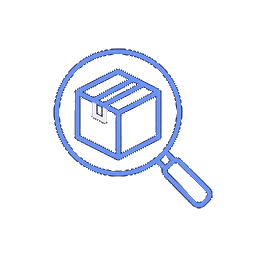
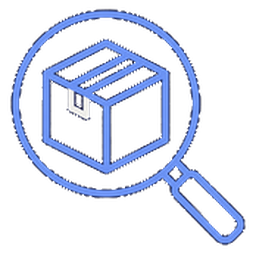
process section updated

Changed region(s): [[0.0312, 0.0312, 0.9688, 0.9688]]

diff --git a/src/app/components/process/process.ts b/src/app/components/process/process.ts
@@ -1,10 +1,12 @@
 import {
   Component,
+  ElementRef,
   OnDestroy,
   afterNextRender,
   computed,
   inject,
   signal,
+  viewChild,
 } from '@angular/core';
 import { RevealDirective } from '../../directives/reveal.directive';
 import { TranslationService } from '../../i18n/translation.service';
@@ -25,6 +27,13 @@ interface Step {
 /** How long each step holds before the track moves on, in milliseconds. */
 const DWELL = 4200;
 
+/**
+ * How long the track waits after someone picks a step before it starts walking
+ * itself again. Long enough to read the step that was chosen, short enough that
+ * the page does not feel like it has died. Every further click restarts it.
+ */
+const RESUME_AFTER = 500;
+
 @Component({
   selector: 'app-process',
   imports: [RevealDirective],
@@ -34,6 +43,8 @@ const DWELL = 4200;
 })
 export class Process implements OnDestroy {
   protected readonly i18n = inject(TranslationService);
+  private readonly host = inject(ElementRef<HTMLElement>);
+  private readonly fillEl = viewChild<ElementRef<HTMLElement>>('railFill');
 
   /**
    * One run from brief to delivery. The brief described this twice, as a
@@ -54,6 +65,18 @@ export class Process implements OnDestroy {
   protected readonly activeStep = computed(() => this.steps[this.active()]);
 
   /**
+   * The rail fill is driven directly rather than derived from the active step,
+   * because it has to do two different jobs. While the track is walking itself
+   * the fill creeps from the current stop to the next one across the whole
+   * dwell, so it reads as a countdown and the change of step never arrives
+   * unannounced. Once a visitor takes over it simply eases to whatever they
+   * picked.
+   */
+  protected readonly fill = signal(0);
+  protected readonly fillMs = signal(0);
+  protected readonly fillEase = signal('linear');
+
+  /**
    * How a stop should read. Two states, not three: a stop is either reached or
    * it is not, which is what makes the row a progress bar rather than a row of
    * six buttons with one of them lit. Steps already passed look identical to
@@ -66,35 +89,166 @@ export class Process implements OnDestroy {
     return index <= this.active();
   }
 
-  /** How far along the track the fill reaches, as a percentage. */
-  protected readonly progress = computed(
-    () => (this.active() / (this.steps.length - 1)) * 100,
-  );
+  /** Where a stop sits along the rail, as a percentage of its length. */
+  private stopAt(index: number): number {
+    return (index / (this.steps.length - 1)) * 100;
+  }
 
   private timer?: ReturnType<typeof setInterval>;
+  private resumeTimer?: ReturnType<typeof setTimeout>;
+  private observer?: IntersectionObserver;
+  /** Whether the track is currently walking itself, as opposed to being driven. */
+  private walking = false;
+  /** Set once, if the visitor has asked for less movement. */
+  private still = false;
+  /** Whether the section is on screen. The track only walks while it is. */
+  private onScreen = false;
+  /** Whether a step was picked recently enough to still be holding the track. */
+  private picked = false;
 
   constructor() {
     afterNextRender(() => {
       // The track walks itself so the sequence reads as a sequence without
-      // anyone touching it. It stops for good at the first interaction: once a
-      // visitor is choosing steps, moving the panel under them is a nuisance.
-      const still = matchMedia('(prefers-reduced-motion: reduce)').matches;
-      if (!still) {
-        this.timer = setInterval(
-          () => this.active.update((i) => (i + 1) % this.steps.length),
-          DWELL,
-        );
+      // anyone touching it. Picking a step only pauses that: holding the panel
+      // still while someone reads is the point, abandoning the animation for
+      // the rest of the visit is not.
+      this.still = matchMedia('(prefers-reduced-motion: reduce)').matches;
+      this.fill.set(this.stopAt(0));
+      if (this.still) {
+        return;
       }
+
+      // And it only walks while it can be seen. Running from page load means
+      // the sequence has usually played itself out before a visitor scrolls
+      // this far, so they arrive at a track already full and never see it
+      // move. Leaving the section parks it until they come back.
+      this.observer = new IntersectionObserver(
+        ([entry]) => {
+          this.onScreen = entry.isIntersecting;
+          if (this.onScreen) {
+            this.wake();
+          } else {
+            this.pauseWalking();
+            clearTimeout(this.resumeTimer);
+          }
+        },
+        // A third of the section showing is enough to call it seen, and is
+        // reached well before the track itself scrolls into view.
+        { threshold: 0.33 },
+      );
+      this.observer.observe(this.host.nativeElement);
     });
   }
 
   ngOnDestroy(): void {
-    this.stopAdvancing();
+    this.pauseWalking();
+    clearTimeout(this.resumeTimer);
+    this.observer?.disconnect();
   }
 
   protected select(index: number): void {
-    this.stopAdvancing();
+    this.pauseWalking();
     this.active.set(index);
+    // A deliberate choice should land, not crawl.
+    this.fillEase.set('cubic-bezier(0.22, 1, 0.36, 1)');
+    this.fillMs.set(450);
+    this.fill.set(this.stopAt(index));
+
+    // Hand the track back after a pause, measured from this click: a second
+    // click restarts the wait rather than stacking another resume on top.
+    this.picked = true;
+    this.armResume();
+  }
+
+  /**
+   * Start walking again when nothing is holding the track back. Both brakes are
+   * checked here rather than at each call site, so scrolling away mid-pause and
+   * coming back cannot start two tracks at once.
+   */
+  private wake(): void {
+    if (this.still || !this.onScreen || this.walking) {
+      return;
+    }
+    if (this.picked) {
+      this.armResume();
+      return;
+    }
+    this.startWalking();
+  }
+
+  private armResume(): void {
+    clearTimeout(this.resumeTimer);
+    if (this.still || !this.onScreen) {
+      return;                           // re-armed by the observer on return
+    }
+    this.resumeTimer = setTimeout(() => {
+      this.picked = false;
+      this.wake();
+    }, RESUME_AFTER);
+  }
+
+  private startWalking(): void {
+    this.pauseWalking();
+    this.walking = true;
+    this.creepToNext();
+    this.timer = setInterval(() => {
+      this.active.update((i) => (i + 1) % this.steps.length);
+      this.creepToNext();
+    }, DWELL);
+  }
+
+  private pauseWalking(): void {
+    this.walking = false;
+    clearInterval(this.timer);
+    this.timer = undefined;
+    this.freezeFill();
+  }
+
+  /**
+   * Pin the fill where it has actually been painted. Clearing the interval only
+   * stops the next step from being scheduled; the width transition already in
+   * flight carries on to its target regardless, so without this the bar keeps
+   * creeping after the track has supposedly stopped - including while the
+   * section is off screen.
+   */
+  private freezeFill(): void {
+    const el = this.fillEl()?.nativeElement;
+    const rail = el?.parentElement;
+    if (!el || !rail) {
+      return;
+    }
+    const width = el.getBoundingClientRect().width;
+    const total = rail.getBoundingClientRect().width;
+    if (total > 0) {
+      this.fillMs.set(0);
+      this.fill.set((width / total) * 100);
+    }
+  }
+
+  /**
+   * Snap the fill onto the current stop, then start it travelling toward the
+   * one after. The snap has to be painted before the crawl is asked for, or the
+   * browser coalesces both into a single transition from the old position and
+   * the bar appears to jump. Two frames is what it takes for the zero-duration
+   * width to be committed first.
+   */
+  private creepToNext(): void {
+    const index = this.active();
+    this.fillEase.set('linear');
+    this.fillMs.set(0);
+    this.fill.set(this.stopAt(index));
+    const last = index === this.steps.length - 1;
+    requestAnimationFrame(() =>
+      requestAnimationFrame(() => {
+        if (!this.walking) {
+          return;                       // a click landed in between; leave it be
+        }
+        // On the last stop the bar is already full: hold it there and let the
+        // wrap reset it, rather than draining backwards to the start.
+        this.fillMs.set(last ? 0 : DWELL);
+        this.fill.set(this.stopAt(last ? index : index + 1));
+      }),
+    );
   }
 
   /** Arrow keys walk the track, the way a tablist is expected to behave. */
@@ -115,8 +269,4 @@ export class Process implements OnDestroy {
     (document.getElementById(`process-tab-${next}`) as HTMLElement | null)?.focus();
   }
 
-  private stopAdvancing(): void {
-    clearInterval(this.timer);
-    this.timer = undefined;
-  }
 }

diff --git a/src/app/components/process/process.html b/src/app/components/process/process.html
@@ -33,8 +33,11 @@
                step 01 is on the left in both languages and the fill has to grow
                the same way the stops are ordered. -->
           <div
+            #railFill
             class="process-fill absolute left-0 top-0 h-px bg-royal-400"
-            [style.width.%]="progress()"
+            [style.width.%]="fill()"
+            [style.transitionDuration.ms]="fillMs()"
+            [style.transitionTimingFunction]="fillEase()"
           ></div>
         </div>
 
@@ -65,7 +68,7 @@
                   height="40"
                   loading="lazy"
                   decoding="async"
-                  class="h-7 w-7 transition duration-300 sm:h-10 sm:w-10"
+                  class="h-9 w-9 transition duration-300 sm:h-[3.25rem] sm:w-[3.25rem]"
                   [class.opacity-35]="!reached(i)"
                 />
               </span>

diff --git a/src/app/components/process/process.css b/src/app/components/process/process.css
@@ -1,6 +1,7 @@
-/* The fill grows from whichever edge the language starts at. */
+/* Duration and easing are set per change from the component: the fill creeps
+   while the track walks itself and eases when someone picks a step. */
 .process-fill {
-  transition: width 0.5s cubic-bezier(0.22, 1, 0.36, 1);
+  transition-property: width;
 }
 
 /* Each stop needs a fixed share of the row, or the widest icon pushes the
